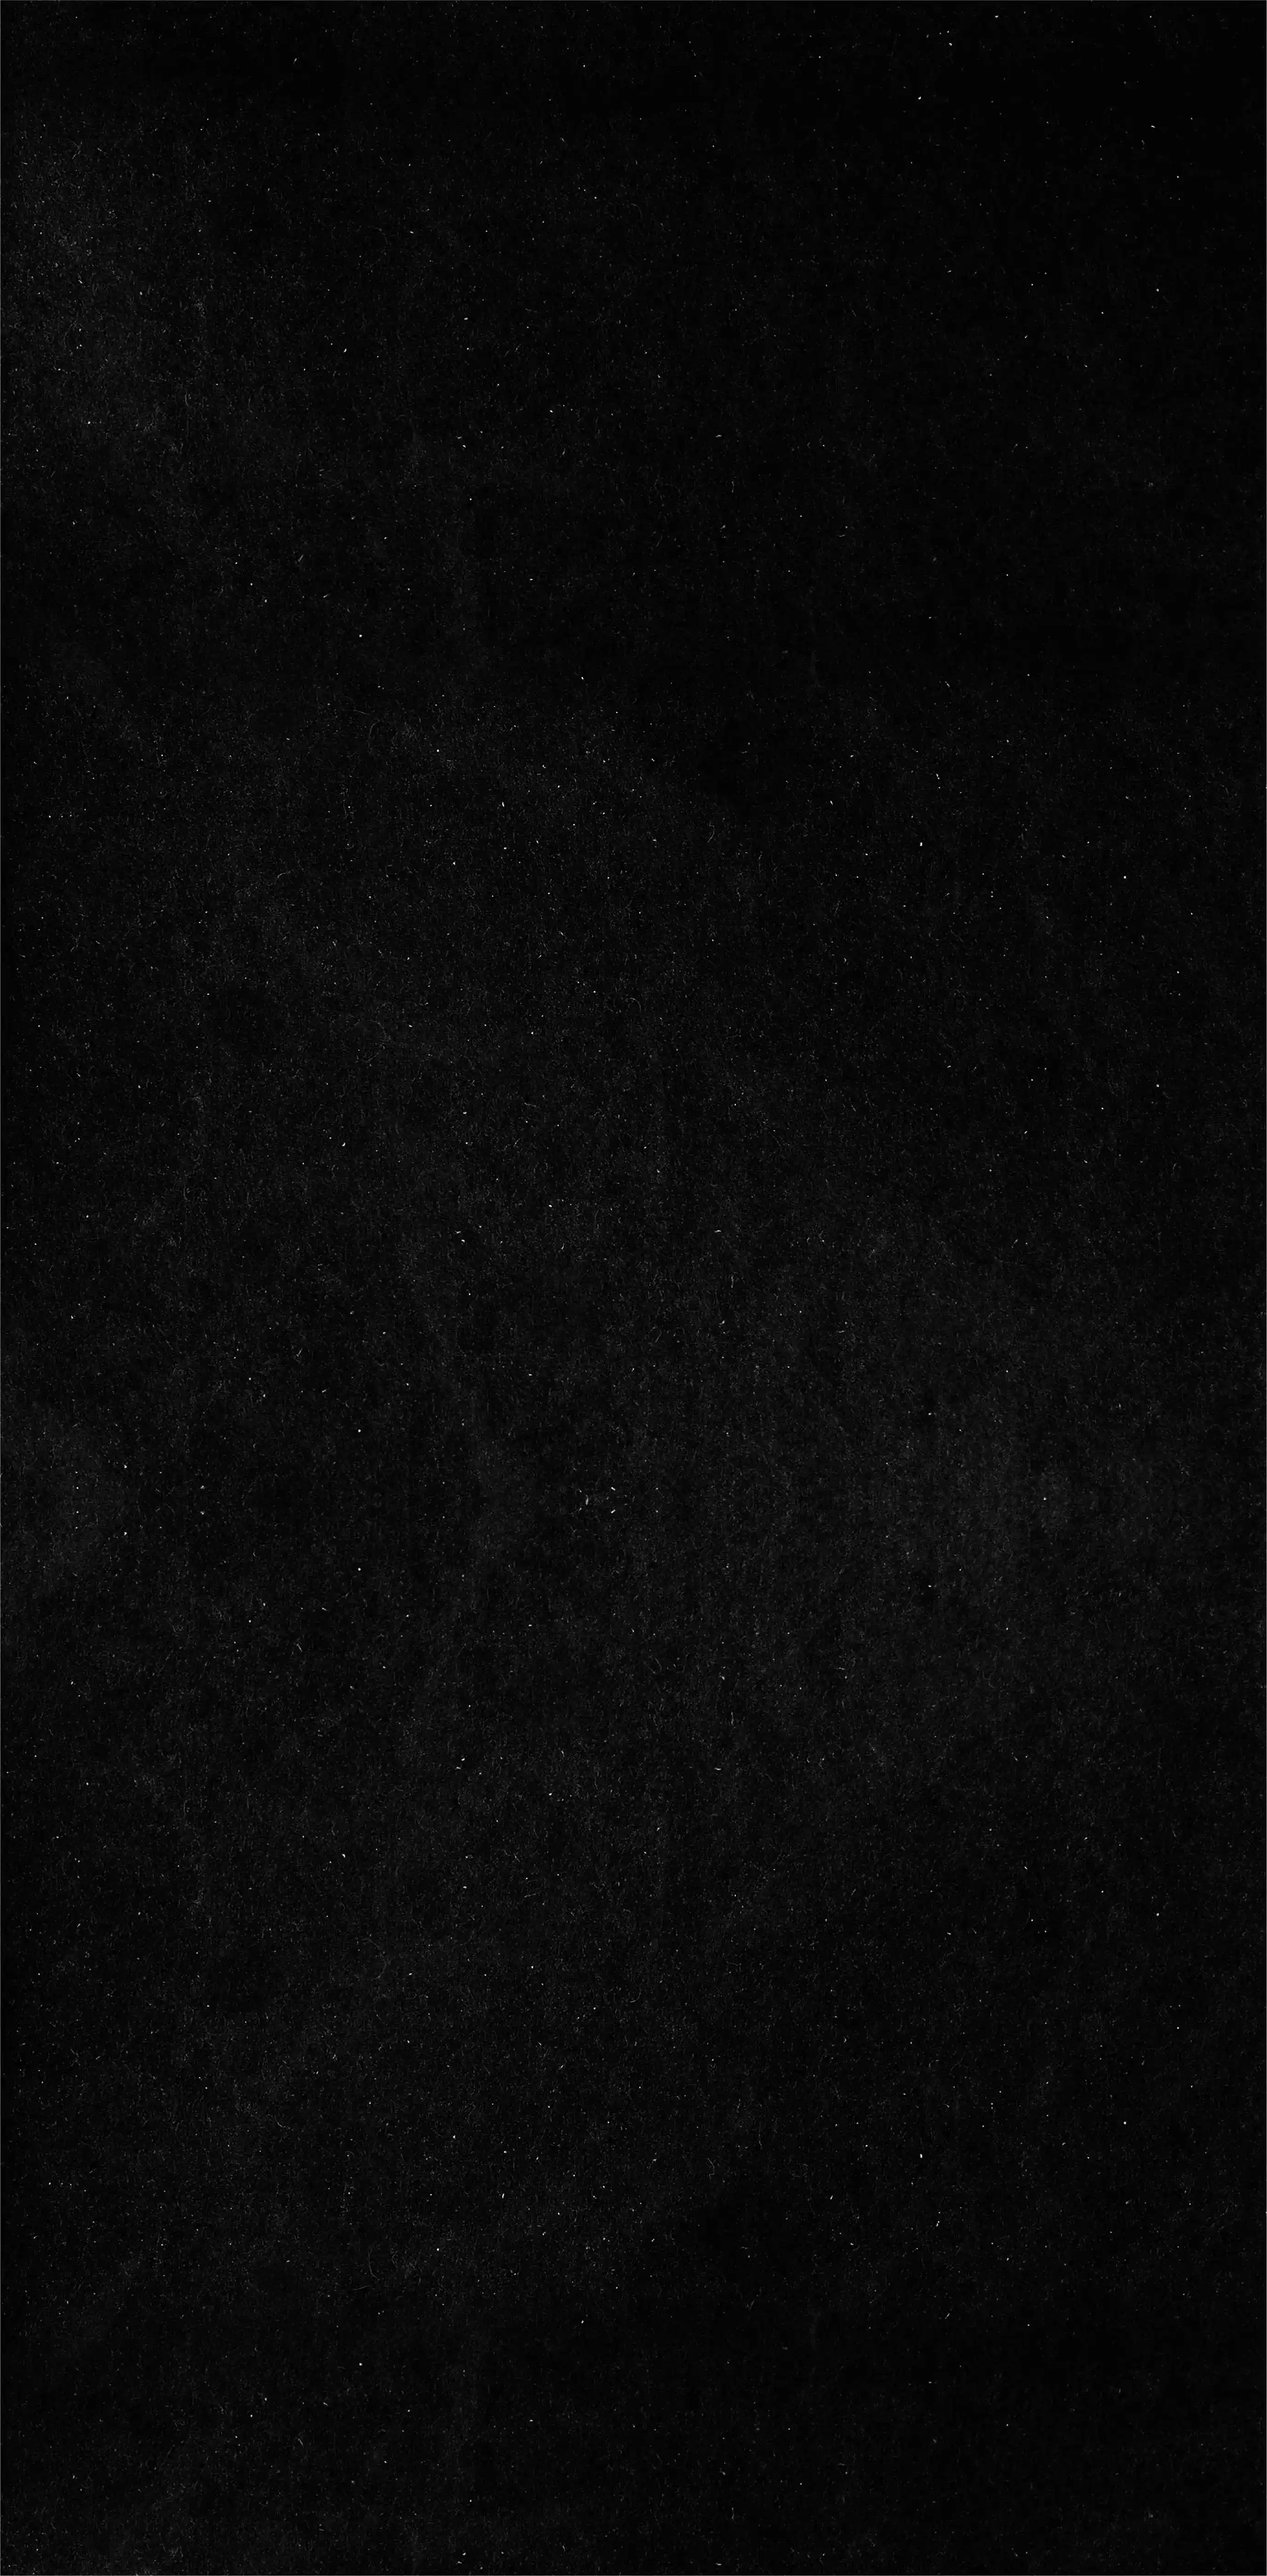
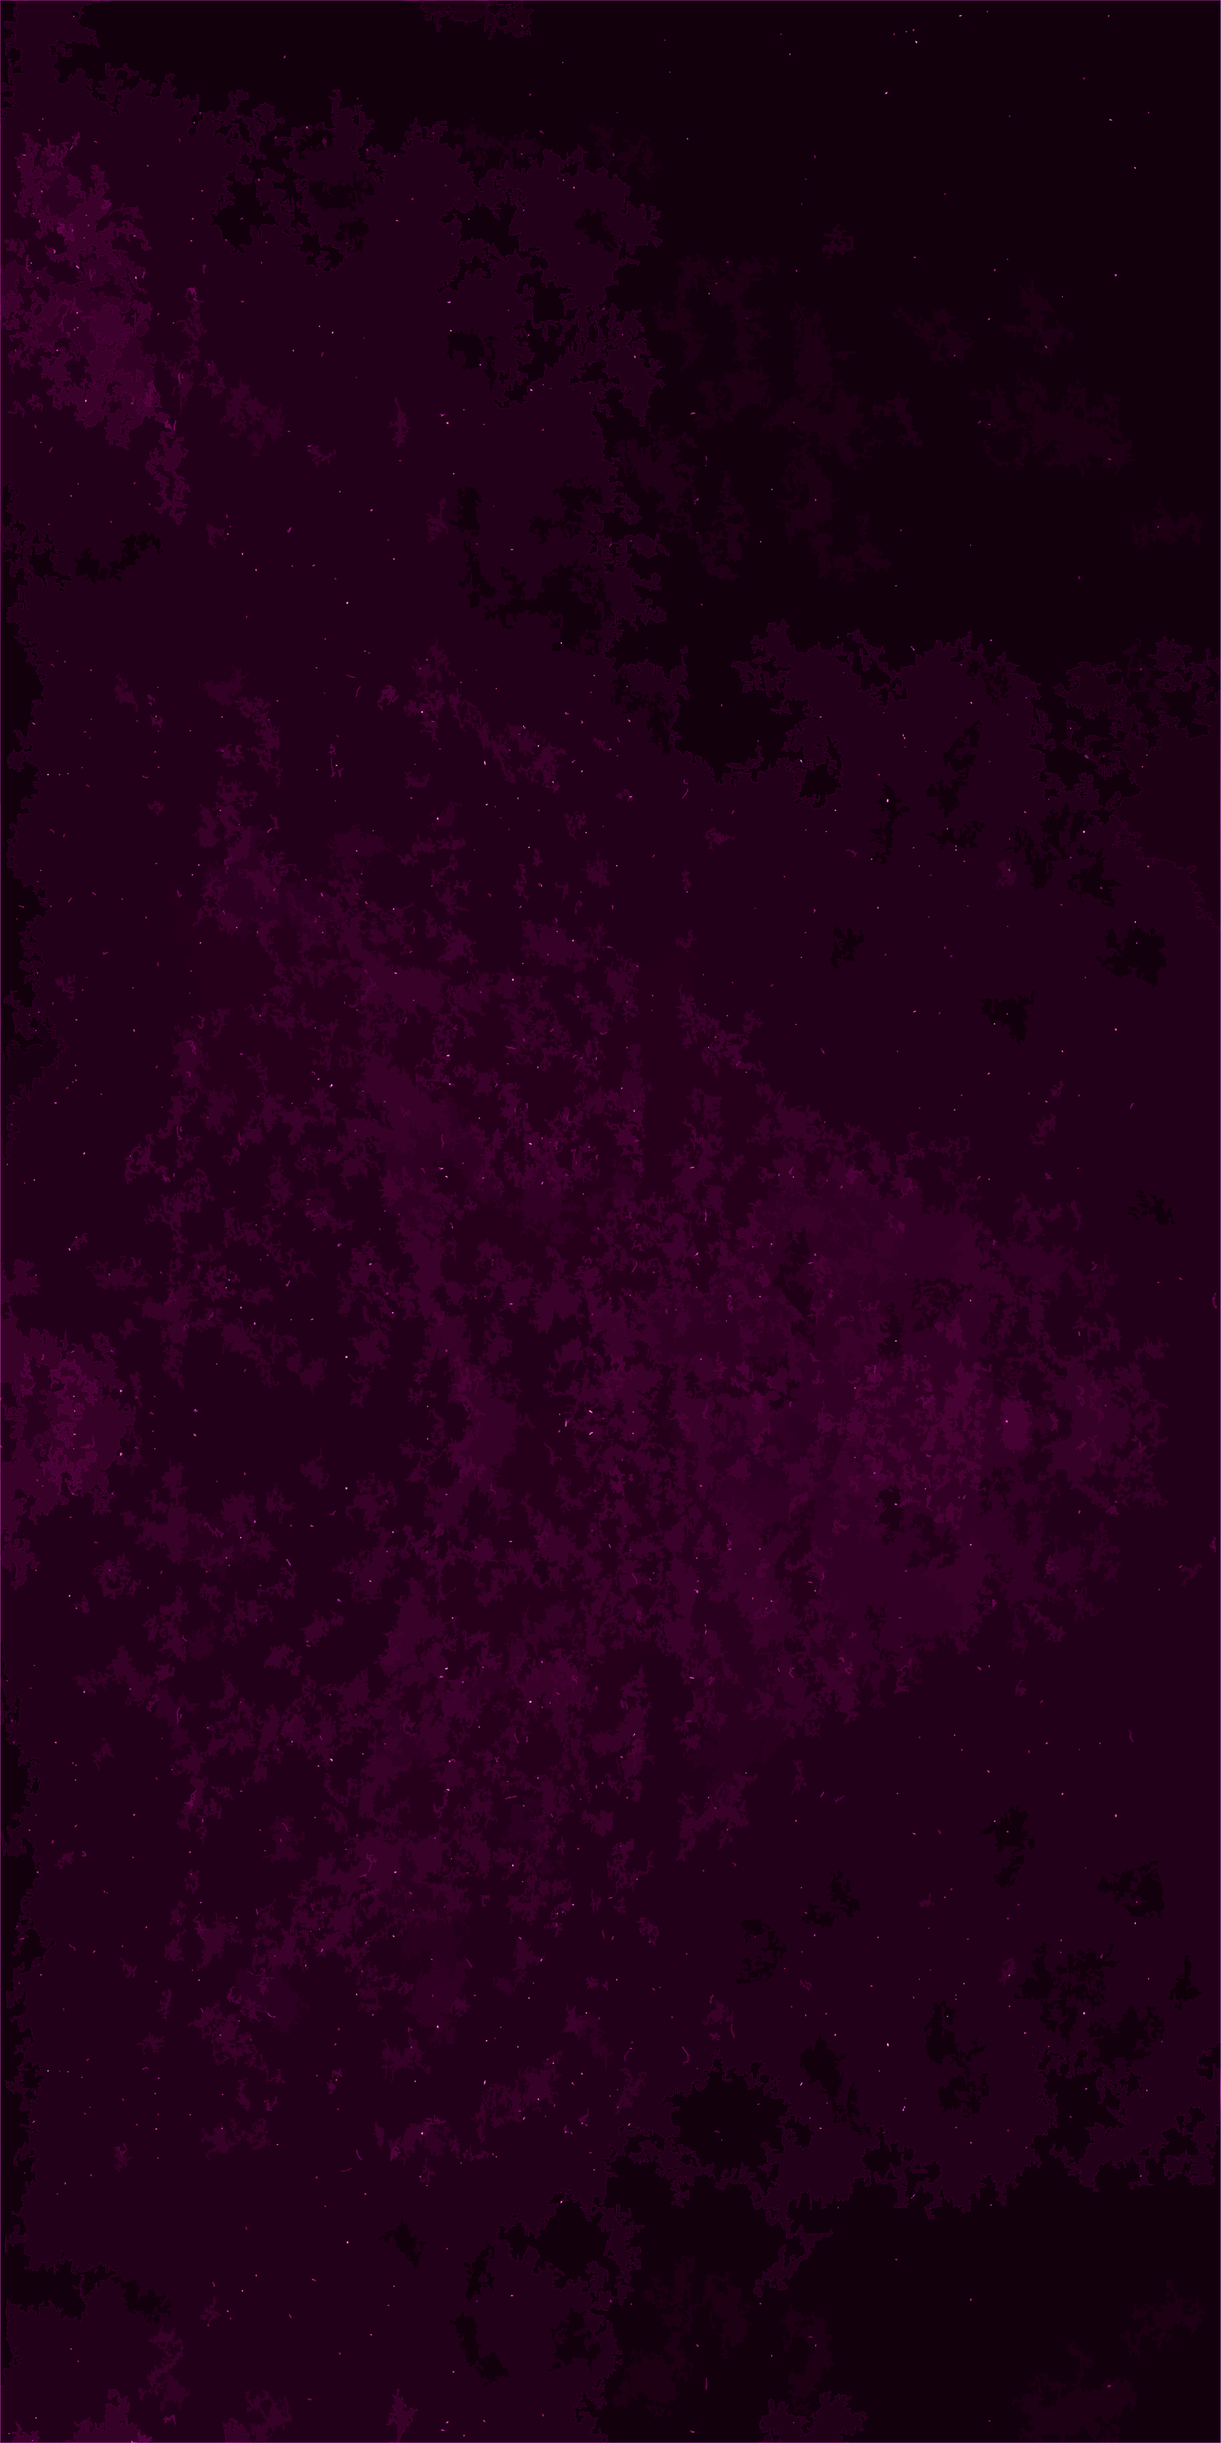
ios fixes

diff --git a/src/app/background/background.component.scss b/src/app/background/background.component.scss
@@ -23,12 +23,20 @@
         pointer-events: none!important;
     }
     span {
+        transform:translate3d(0,0,0);
+        webkit-backface-visibility: visible;
+        backface-visibility: visible;
         display:grid;
         grid-template-areas:
         'video';
         grid-template-columns: 1fr;
         grid-template-rows: 1fr;
+        z-index:1;
         section.background {
+            transform:translate3d(0,0,0);
+            webkit-backface-visibility: visible;
+            backface-visibility: visible;
+            z-index:5;
             justify-self: center;
             align-self: center;
             min-width:100vw;
@@ -38,20 +46,28 @@
             grid-area:video;
             // background:url('../../assets/images/background.webp');
             background-attachment: fixed;
-            background-position: center center;
+            background-position: 50% 50%;
             background-repeat: repeat;
             background-size: 110% auto;
             transition:1s;
             opacity:0;
-            svg {
+            mix-blend-mode: exclusion;
+            background-blend-mode: exclusion;
+            img {
+                animation:16s shiney infinite;
+                @keyframes shiney {
+                    50% {
+                        -webkit-filter:brightness(1);
+                        filter:brightness(1);
+                    }
+                    75% {
+                        -webkit-filter:brightness(1.25);
+                        filter:brightness(1.25);
+                    }
+                }
             }
             &.show {
                 opacity:1;
-            }
-            img {
-                min-width:200vw;
-                align-self: center;
-                justify-self: center;
             }
             display:grid;
             grid-template-columns: 1fr;
@@ -61,21 +77,9 @@
             justify-items: center;
             align-items: center;
         }
-        video, div.background {
-            grid-area:video;
-        }
-        div.background {
-            mix-blend-mode: color;
-            z-index:99;
-            transition-delay: 4s;
-            transition:4s;
-            background:#000;
-            &.pink {
-                background:#FF00CC;
-            }
-        }
     }
     video {
+        z-index:3;
         grid-area:video;
         min-width:100vw;
         max-width:100vh;
@@ -83,5 +87,34 @@
         max-height:100vh;
         object-fit: cover;
         opacity:0.5;
+        background-attachment: fixed;
+        background-position: center center;
+        background-repeat: repeat;
+        background-size: 110% auto;
+        filter: hue-rotate(
+            99deg) brightness(1) saturate(6.5);
+        -webkit-filter: hue-rotate(
+            99deg) brightness(1) saturate(6.5);
+        //     animation:6s light-up infinite;
+        //     @keyframes light-up {
+        //         75% {
+        //             filter: hue-rotate(
+        //                 99deg) brightness(1) saturate(6.5);
+        //             -webkit-filter: hue-rotate(
+        //                 99deg) brightness(1) saturate(6.5);
+        //         }
+        //         90% {
+        //             filter: hue-rotate(
+        //                 99deg) brightness(3) saturate(6.5);
+        //             -webkit-filter: hue-rotate(
+        //                 99deg) brightness(3) saturate(6.5);
+        //         }
+        //     }
     }
+    .IIV::-webkit-media-controls-play-button,
+    .IIV::-webkit-media-controls-start-playback-button {
+     opacity: 0;
+     pointer-events: none;
+     width: 5px;
+ }
 }

diff --git a/src/app/background/background.component.ts b/src/app/background/background.component.ts
@@ -1,4 +1,6 @@
 import { Component, OnInit, ViewChild, ElementRef, AfterViewInit, HostListener, Renderer2 } from '@angular/core';
+import enableInlineVideo from 'iphone-inline-video';
+import { ProjectService } from '../project.service';
 
 @Component({
   selector: 'app-background',
@@ -8,51 +10,83 @@ import { Component, OnInit, ViewChild, ElementRef, AfterViewInit, HostListener, 
 export class BackgroundComponent implements OnInit, AfterViewInit {
 
   videoPlaying = false;
+  transforms;
   zTransform = 0;
+  yTransform = 0;
+  xTransform = 0;
+  lastMovement = new Date().getTime();
   @ViewChild('videoEle') videoEle: ElementRef;
   @ViewChild('backgroundEle') private backgroundEle: ElementRef;
-  @ViewChild('pinkBackgroundEle') private pinkBackgroundEle: ElementRef;
+  // @ViewChild('pinkBackgroundEle') private pinkBackgroundEle: ElementRef;
   @HostListener('window:mousewheel', ['$event'])
   onMouseWheel(event: MouseWheelEvent): void {
-    this.scrollElement(event.deltaY);
+    this.scrollElement(event.deltaY, event.deltaX);
   }
   constructor(
-    private renderer: Renderer2
+    private renderer: Renderer2,
+    private projectService: ProjectService
   ) { }
 
   ngOnInit(): void {
+//     webView.configuration.allowsInlineMediaPlayback = true
+// if #available(iOS 10.0, *) {
+//     webConfiguration.mediaTypesRequiringUserActionForPlayback = []
+// } else {
+//     // Fallback on earlier versions
+//     webConfiguration.mediaPlaybackRequiresUserAction = false
+// }
+  const video = document.querySelector('video');
+  enableInlineVideo(video);
   }
-  scrollElement(deltaY): void {
+  scrollElement(deltaY, deltaX): void {
+    if (this.lastMovement - new Date().getTime() > -500) {
+      return;
+    }
+    this.lastMovement = new Date().getTime();
     const element = this.backgroundEle.nativeElement;
-    const elementWidth = element.scrollWidth;
     this.zTransform += (deltaY / 2);
-    if (this.zTransform > 20) {
-      this.zTransform = -50;
-    } else if (this.zTransform <= -79) {
-      this.zTransform = -20;
+    if (this.zTransform > 30) {
+      this.zTransform = 0;
+    } else if (this.zTransform <= -19) {
+      this.zTransform = 10;
     }
     this.renderer.setStyle(
       element,
       'transform',
-      `translateZ(${this.zTransform}vw)`
+      `translateZ(${this.zTransform}vw) translate3d(0,0,${this.zTransform}vw)`
       );
+    // this.xTransform += (deltaY / 2);
+    // if (this.xTransform < 1) {
+    //   this.xTransform = 50;
+    // }
+    // this.yTransform +=  (Math.random() - 0.25) * deltaY;
+    // if (this.yTransform < -50) {
+    //   this.yTransform = 50;
+    // }
+    // this.renderer.setStyle(
+    //   element,
+    //   'backgroundPosition',
+    //   `(${this.xTransform}%) ${this.yTransform}%)`
+    //   );
+    // this.transforms = this.xTransform + '% ' + this.yTransform + '%';
   }
 
   ngAfterViewInit(): void {
+    this.projectService.videoEle.next(this.videoEle);
+    this.videoEle.nativeElement.volume = 0;
+    this.videoEle.nativeElement.defaultMuted = true;
+    this.videoEle.nativeElement.muted = true;
     setTimeout(() => {
       if (this.videoPlaying === false) {
         this.videoEle.nativeElement.play();
         this.renderer.setProperty(this.videoEle.nativeElement, 'play', true);
+        this.show();
       }
     }, 4000);
   }
 
   show(): void {
     setTimeout(() => {
-      this.renderer.addClass(
-        this.pinkBackgroundEle.nativeElement,
-        'pink'
-        );
       this.renderer.addClass(
         this.backgroundEle.nativeElement,
         'show'

diff --git a/src/app/app.component.ts b/src/app/app.component.ts
@@ -1,5 +1,7 @@
-import { Component, AfterViewInit, AfterContentChecked, AfterContentInit } from '@angular/core';
+import { Component, AfterViewInit, AfterContentChecked, AfterContentInit, ElementRef } from '@angular/core';
 import { fadeUpAnimations, fadeDownAnimations, fadeAnimations, routerAnimations } from './animations';
+import { ProjectService } from './project.service';
+import { BehaviorSubject } from 'rxjs';
 
 @Component({
   selector: 'app-root',
@@ -10,10 +12,19 @@ import { fadeUpAnimations, fadeDownAnimations, fadeAnimations, routerAnimations 
 export class AppComponent implements AfterContentInit {
   title = 'skully-boys';
   afterViewInit = false;
+  videoEle: BehaviorSubject<ElementRef> = this.projectService.videoEle;
+  constructor(
+    private projectService: ProjectService) {
+
+    }
 
   ngAfterContentInit(): void {
     setTimeout(() => {
       this.afterViewInit = true;
     }, 3000);
+  }
+
+  playVideo(): void {
+    this.videoEle.getValue().nativeElement.play();
   }
 }

diff --git a/src/app/project.service.ts b/src/app/project.service.ts
@@ -1,4 +1,4 @@
-import { Injectable } from '@angular/core';
+import { Injectable, ElementRef } from '@angular/core';
 import { BehaviorSubject } from 'rxjs';
 
 @Injectable({
@@ -52,7 +52,7 @@ export class ProjectService {
 
       Skully Boys will be online at www.skullyboys.io.
 
-      When the market will be sold out you will have to go to opensea.
+      When the market will be sold out you will have to go to DigitalEyes or Solanart.
 
       Skully Boys will be blind minted for 2 SOL`
     },
@@ -84,6 +84,8 @@ export class ProjectService {
     [`The Vision`, `This is just the beginning of the Skully Epic, do not blink or you will miss something!`],
   ];
 
-  public startTime = new BehaviorSubject(1632166860); // Monday, September 20, 2021 7:41:00 PM GMT
+  public startTime = new BehaviorSubject(1632268800); // Monday, September 20, 2021 7:41:00 PM GMT
+
+  public videoEle: BehaviorSubject<ElementRef | undefined> = new BehaviorSubject(undefined); // to play on iOS
   constructor() { }
 }

diff --git a/src/app/background/background.component.html b/src/app/background/background.component.html
@@ -1,8 +1,8 @@
 
 <span style="webkit-perspective: 100vw; perspective: 100vw; webkit-perspective-origin: 50%; perspective-origin: 50%;">
-<section class="background" #backgroundEle>
+<section class="background" [style.background-position]="transforms" #backgroundEle>
     <img src="../../assets/images/background.webp" (load)="show()" (loaded)="show()"/>
-    </section>
-    <video #videoEle src="../../assets/videos/floor_smoke.webm" autoplay repeat loop muted [muted]="true" (check)="play()"></video>
-    <div #pinkBackgroundEle class="background"></div>
+</section>
+    <video #videoEle src="../../assets/videos/floor_smoke.webm" autoplay repeat loop muted playsinline [muted]="true" (check)="play()"></video>
+    <!-- <div #pinkBackgroundEle class="background"></div> -->
 </span>

diff --git a/src/app/faq-page/faq-item/faq-item.component.scss b/src/app/faq-page/faq-item/faq-item.component.scss
@@ -1,8 +1,8 @@
 :host {
     max-width:100%;
-    max-height:100%;
+    max-height:max-content;
     min-width:100%;
-    min-height:100%;
+    // min-height:100%;
     display:grid;
     grid-template-columns: 0.05fr 1fr 0.15fr;
     grid-template-rows: 20px 1fr 20px;
@@ -46,6 +46,7 @@
                 opacity:0;
                 height:max-content;
                 min-height:0px;
+                max-height:0vh;
                 p {
                     padding-top:20px;
                     transition:0.5s;
@@ -61,6 +62,7 @@
                 opacity: 1;
                 font-size:1rem;
                 min-height:100px;
+                max-height:50vh;
                 p {
                     font-size:1rem;
                     @media (max-width: 820px) {

diff --git a/src/app/app.component.html b/src/app/app.component.html
@@ -1,6 +1,6 @@
 <app-nav *ngIf="afterViewInit === true" [@fadeDownAnimations]></app-nav>
 <app-background *ngIf="afterViewInit === true" [@fadeAnimations]></app-background>
-<section class="content" *ngIf="afterViewInit === true" [@fadeUpAnimations]>
+<section class="content" *ngIf="afterViewInit === true" [@fadeUpAnimations] (click)="playVideo()">
   <div class="spacer"></div>
   <app-landing-page></app-landing-page>
   <app-about-page></app-about-page>

diff --git a/src/app/about-page/about-page.component.html b/src/app/about-page/about-page.component.html
@@ -14,7 +14,7 @@
     <br><br>
     Here, all excesses are allowed because immortality reigns.
     <br><br>
-    The Bones Club was, is and will be the private and trending club on the Ethereum blockchain.
+    The Bones Club was, is and will be the private and trending club on the Solana blockchain.
     <br><br>
     Join the club to relax with like-minded Skully Boys and projects in the metaverse.
     <br><br>

diff --git a/src/app/faq-page/faq-page.component.scss b/src/app/faq-page/faq-page.component.scss
@@ -37,9 +37,9 @@
     div.faq-items {
         align-self: start;
         max-width:100%;
-        max-height:100%;
+        max-height:100vh;
         min-width:100%;
-        min-height:100%;
+        min-height:50vh;
         justify-self:start;
         display:grid;
         grid-auto-flow: row;

diff --git a/src/app/loading-page/loading-page.component.scss b/src/app/loading-page/loading-page.component.scss
@@ -20,6 +20,9 @@
     align-items: center;
     justify-items: center;
     align-content: center;
+    @media (max-width:600px) {
+        row-gap:15vh;
+    }
     // &:after {
     //     position:absolute;
     //     content:'';

diff --git a/src/app/landing-page/skelly-boy/skelly-boy.component.scss b/src/app/landing-page/skelly-boy/skelly-boy.component.scss
@@ -9,7 +9,6 @@
     img {
         opacity:0;
         transition:0.4s;
-        filter:drop-shadow(0px 0px 10px black);
         &.show {
             opacity:1;
         }

diff --git a/src/app/app.component.scss b/src/app/app.component.scss
@@ -86,6 +86,7 @@
         app-footer-page {
             grid-area:footer;
         }
+        pointer-events: all;
     }
     main {
         min-height: 100vh;
